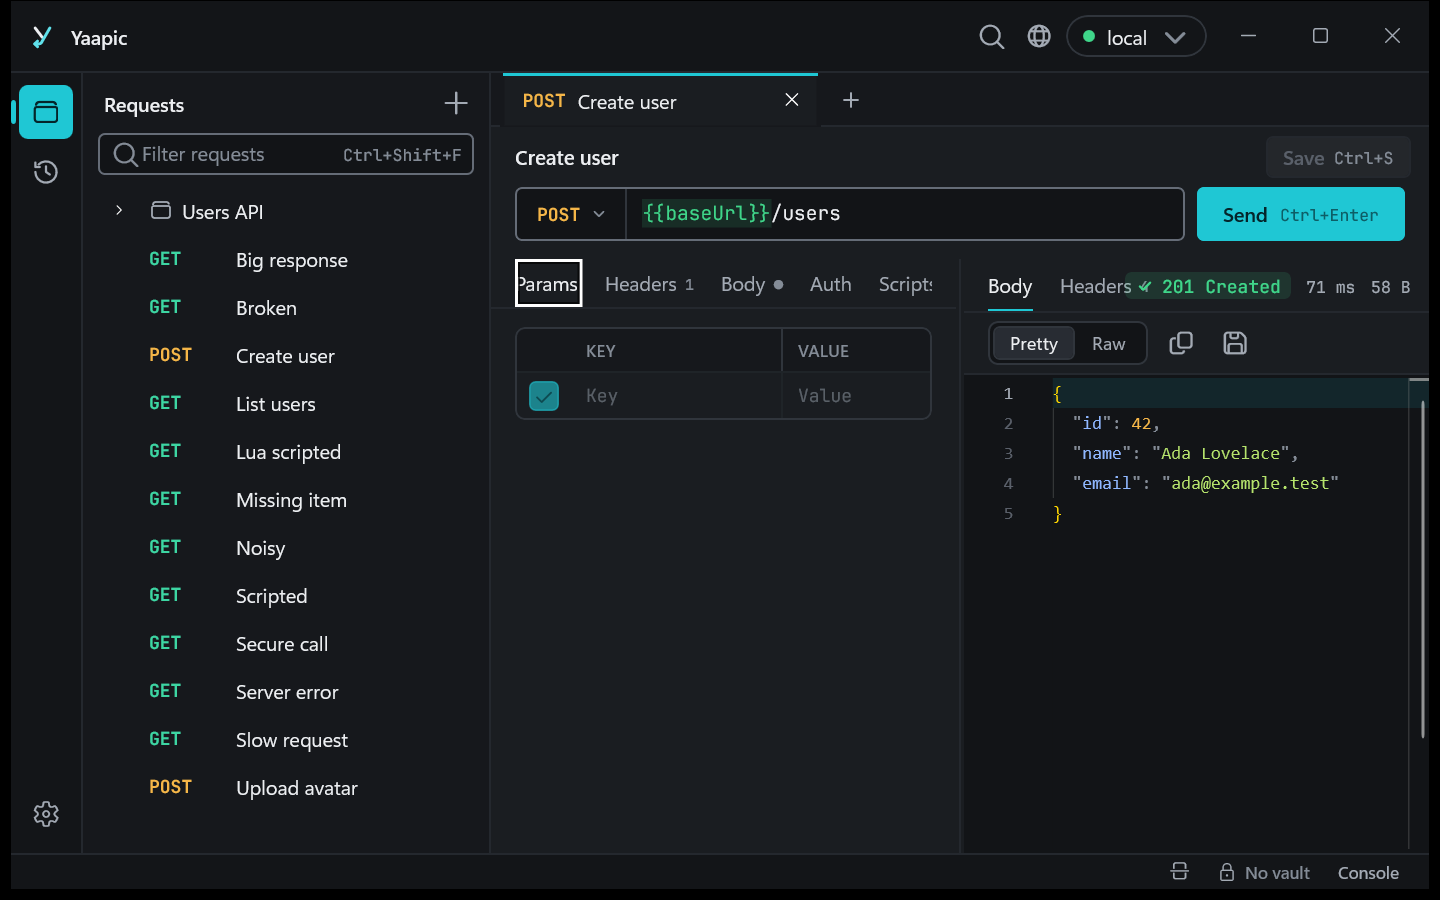
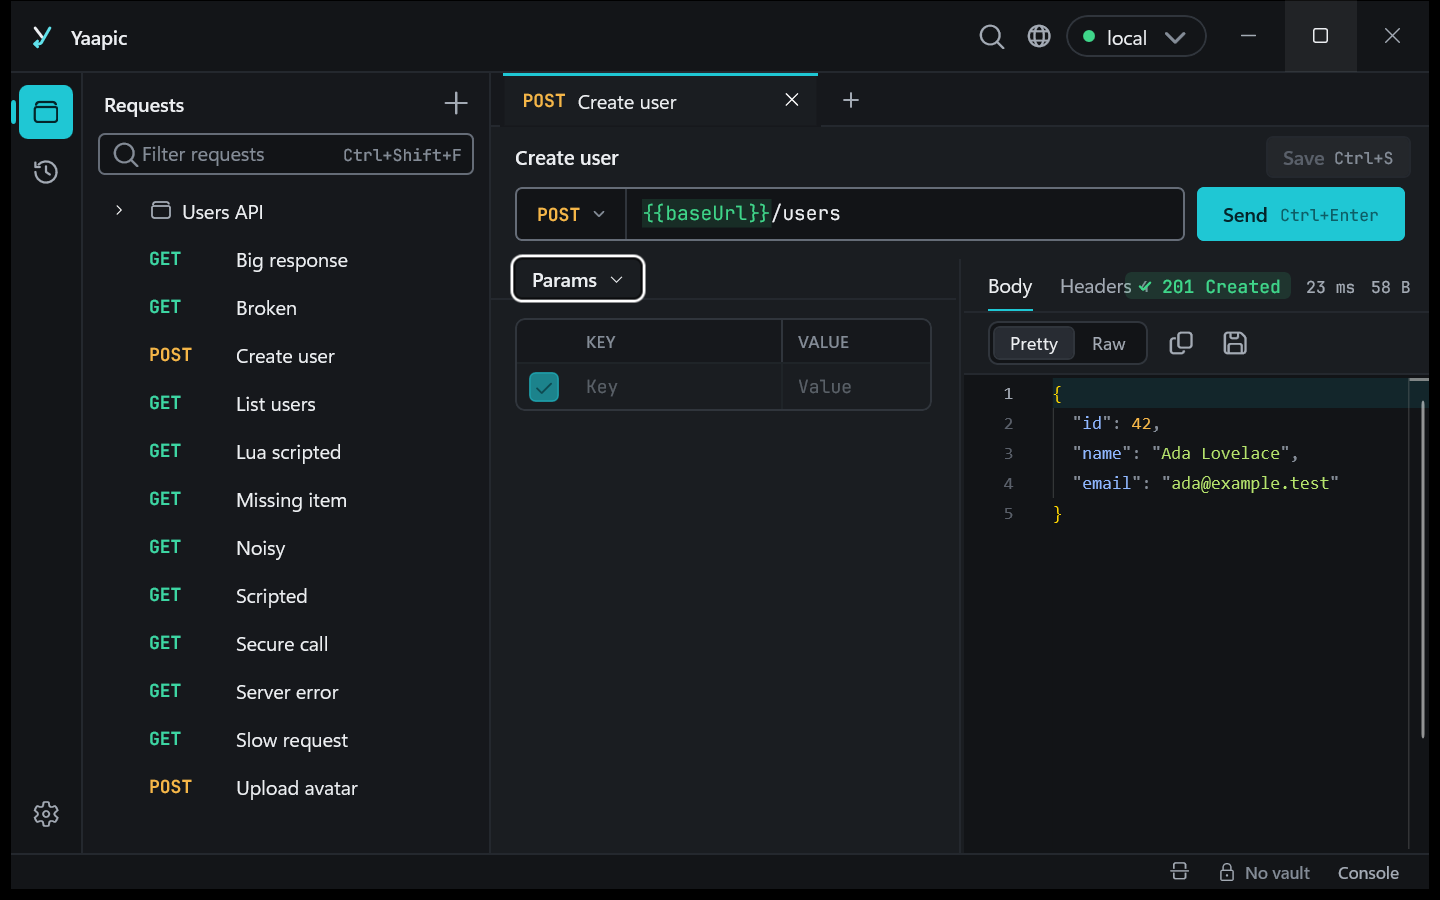
feat: replace the request section tabs by a drop-down when they do not fit
In the side by side layout a narrow request column swaps the Params/Headers/Body/Auth/Scripts/Settings strip for a drop-down
listing the same sections with their counts, and swaps back when there is room (WinUI and Avalonia). Screenshots added.

Changed region(s): [[0.3438, 0.28, 0.6562, 0.4667]]

diff --git a/src/Yaapic.App.WinUI/Views/RequestEditorView.xaml b/src/Yaapic.App.WinUI/Views/RequestEditorView.xaml
@@ -129,8 +129,20 @@
     </Grid>
 
     <!-- Section tabs with count badges. -->
+    <!-- When the strip does not fit (side by side layout), it is replaced by a drop-down listing the same sections. -->
     <Border x:Name="SectionTabs" Grid.Row="2" Grid.ColumnSpan="3" Padding="16,0" BorderBrush="{ThemeResource YaapicBorderSubtleBrush}" BorderThickness="0,0,0,1">
-      <StackPanel Orientation="Horizontal">
+      <Grid>
+      <Button x:Name="TabOverflow" Visibility="Collapsed" Style="{StaticResource YaapicSubtleButtonStyle}" HorizontalAlignment="Left"
+              VerticalAlignment="Center" MinHeight="0" Height="26" Padding="10,0" AutomationProperties.Name="Request sections">
+        <StackPanel Orientation="Horizontal" Spacing="8">
+          <TextBlock x:Name="TabOverflowLabel" VerticalAlignment="Center"/>
+          <FontIcon Glyph="&#xE70D;" FontSize="10" VerticalAlignment="Center"/>
+        </StackPanel>
+        <Button.Flyout>
+          <MenuFlyout x:Name="TabOverflowMenu" Opening="OnTabOverflowOpening"/>
+        </Button.Flyout>
+      </Button>
+      <StackPanel x:Name="TabStrip" Orientation="Horizontal">
         <ToggleButton x:Name="ParamsTab" Style="{StaticResource YaapicPanelToggleTabStyle}" IsChecked="True"
                       Click="OnTabClick">
           <StackPanel Orientation="Horizontal" Spacing="5">
@@ -179,6 +191,7 @@
           <TextBlock Text="Settings" VerticalAlignment="Center"/>
         </ToggleButton>
       </StackPanel>
+      </Grid>
     </Border>
 
     <Grid x:Name="EditorContent" Grid.Row="3" Grid.ColumnSpan="3">

diff --git a/src/Yaapic.App.WinUI/Views/RequestEditorView.xaml.cs b/src/Yaapic.App.WinUI/Views/RequestEditorView.xaml.cs
@@ -51,6 +51,7 @@ public sealed partial class RequestEditorView : UserControl
                 ((MenuFlyoutItem)MethodFlyout.Items[i]).Foreground = BrushMap.Method(RequestEditorViewModel.Methods[i]);
             }
         };
+        SectionTabs.SizeChanged += (_, _) => UpdateTabOverflow();
         ActualThemeChanged += (_, _) =>
         {
             BrushMap.IsLight = ActualTheme == ElementTheme.Light;
@@ -213,6 +214,58 @@ public sealed partial class RequestEditorView : UserControl
         ParamsBadge.Style = BadgeStyle(ParamsTab);
         HeadersBadge.Style = BadgeStyle(HeadersTab);
         BodyBadge.Style = BadgeStyle(BodyTab);
+        UpdateTabOverflowLabel();
+    }
+
+    private double _stripWidth;
+    private bool _compactTabs;
+
+    // The sections the drop-down lists, in strip order: the tab, its label and its count badge.
+    private (ToggleButton Tab, string Label, TextBlock? Badge)[] Sections =>
+    [
+        (ParamsTab, "Params", ParamsBadge),
+        (HeadersTab, "Headers", HeadersBadge),
+        (BodyTab, "Body", BodyBadge),
+        (AuthTab, "Auth", AuthBadge),
+        (ScriptsTab, "Scripts", ScriptsBadge),
+        (SettingsTab, "Settings", null),
+    ];
+
+    // Swaps the tab strip for a drop-down when the strip is wider than the room (a narrow request column).
+    // The strip width is measured while the strip is shown and kept, so the swap back needs no hidden measure.
+    private void UpdateTabOverflow()
+    {
+        if (!_compactTabs)
+        {
+            TabStrip.Measure(new Windows.Foundation.Size(double.PositiveInfinity, double.PositiveInfinity));
+            _stripWidth = TabStrip.DesiredSize.Width;
+        }
+
+        var available = SectionTabs.ActualWidth - SectionTabs.Padding.Left - SectionTabs.Padding.Right;
+        if (available <= 0)
+        {
+            return;
+        }
+
+        _compactTabs = _stripWidth > available;
+        TabStrip.Visibility = _compactTabs ? Visibility.Collapsed : Visibility.Visible;
+        TabOverflow.Visibility = _compactTabs ? Visibility.Visible : Visibility.Collapsed;
+        UpdateTabOverflowLabel();
+    }
+
+    private void UpdateTabOverflowLabel() =>
+        TabOverflowLabel.Text = Sections.FirstOrDefault(s => s.Tab.IsChecked == true).Label ?? "Params";
+
+    private void OnTabOverflowOpening(object? sender, object e)
+    {
+        TabOverflowMenu.Items.Clear();
+        foreach (var (tab, label, badge) in Sections)
+        {
+            var text = badge is { Visibility: Visibility.Visible } ? $"{label} {badge.Text}" : label;
+            var item = new RadioMenuFlyoutItem { Text = text, GroupName = "sections", IsChecked = tab.IsChecked == true };
+            item.Click += (_, _) => OnTabClick(tab, new RoutedEventArgs());
+            TabOverflowMenu.Items.Add(item);
+        }
     }
 
     private bool Horizontal => _layout?.IsHorizontal == true;

diff --git a/src/Yaapic.App.Avalonia/Views/RequestEditorView.axaml.cs b/src/Yaapic.App.Avalonia/Views/RequestEditorView.axaml.cs
@@ -15,6 +15,8 @@ public sealed partial class RequestEditorView : UserControl
     public RequestEditorView()
     {
         InitializeComponent();
+        Sections.SizeChanged += (_, _) => UpdateSectionsOverflow();
+        Sections.SelectionChanged += (_, _) => UpdateSectionsOverflowLabel();
         AddHandler(KeyDownEvent, OnSendShortcut, RoutingStrategies.Tunnel);
         foreach (var method in RequestEditorViewModel.Methods)
         {
@@ -60,6 +62,50 @@ public sealed partial class RequestEditorView : UserControl
         }
 
         ApplyLayout();
+    }
+
+    private double _stripWidth;
+    private bool _compactSections;
+
+    // Swaps the tab strip for a drop-down when the tabs are wider than the room (a narrow request column).
+    // The width is summed while the strip is shown and kept, so the swap back needs no hidden measure.
+    private void UpdateSectionsOverflow()
+    {
+        // The strip is one row of tabs while it fits: its right edge is then its natural width. Once the tabs wrap, keep the last good value.
+        var tabs = Sections.Items.OfType<TabItem>().ToList();
+        if (!_compactSections && tabs.Count > 0 && tabs.All(t => t.Bounds.Width > 0 && t.Bounds.Y == tabs[0].Bounds.Y))
+        {
+            _stripWidth = tabs.Max(t => t.Bounds.Right);
+        }
+
+        if (Sections.Bounds.Width <= 0 || _stripWidth <= 0)
+        {
+            return;
+        }
+
+        _compactSections = _stripWidth + 16 > Sections.Bounds.Width;
+        Sections.Classes.Set("compact", _compactSections);
+        Sections.Margin = new global::Avalonia.Thickness(0, _compactSections ? 32 : 0, 0, 0);
+        SectionsOverflow.IsVisible = _compactSections;
+        UpdateSectionsOverflowLabel();
+    }
+
+    private static string Label(TabItem tab) =>
+        (tab.Header as StackPanel)?.Children.OfType<TextBlock>().FirstOrDefault()?.Text ?? tab.Header?.ToString() ?? "";
+
+    private void UpdateSectionsOverflowLabel() =>
+        SectionsOverflowLabel.Text = Sections.SelectedItem is TabItem tab ? Label(tab) : "";
+
+    private void OnSectionsOverflowOpening(object? sender, EventArgs e)
+    {
+        var menu = (MenuFlyout)SectionsOverflowButton.Flyout!;
+        menu.Items.Clear();
+        foreach (var tab in Sections.Items.OfType<TabItem>())
+        {
+            var item = new MenuItem { Header = Label(tab), ToggleType = MenuItemToggleType.Radio, GroupName = "sections", IsChecked = ReferenceEquals(tab, Sections.SelectedItem) };
+            item.Click += (_, _) => Sections.SelectedItem = tab;
+            menu.Items.Add(item);
+        }
     }
 
     private void OnLayoutChanged(object? sender, System.ComponentModel.PropertyChangedEventArgs e) => ApplyLayout();

diff --git a/docs/tasks/milestone-ux-improvements/U-01-request-response-layout.md b/docs/tasks/milestone-ux-improvements/U-01-request-response-layout.md
@@ -26,7 +26,9 @@ Remembering the split position per layout, hiding the response panel, per-reques
 
 - [x] Toggle switches every open tab at once and survives a restart (tests: `FileSessionStoreTests`, `ShellViewModelTests`).
 - [x] Screenshots of both layouts on both front-ends in `docs/screenshots/layout`.
-- [x] Known limit: below about 900 px of editor width the tab strips and the response header clip in the side-by-side layout.
+- [x] When the request section tabs no longer fit (narrow request column), they are replaced by a drop-down listing the same sections
+      with their counts (WinUI `UpdateTabOverflow`, Avalonia `UpdateSectionsOverflow`), like Postman; it goes back to tabs when there is room.
+- [x] Known limit: the response header (Body / Headers tabs next to the status chips) still overlaps in a very narrow response column.
 
 ## Suggested commit message
 
